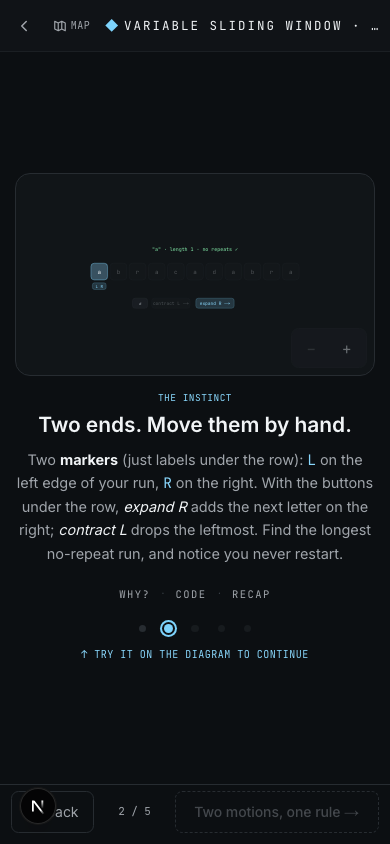
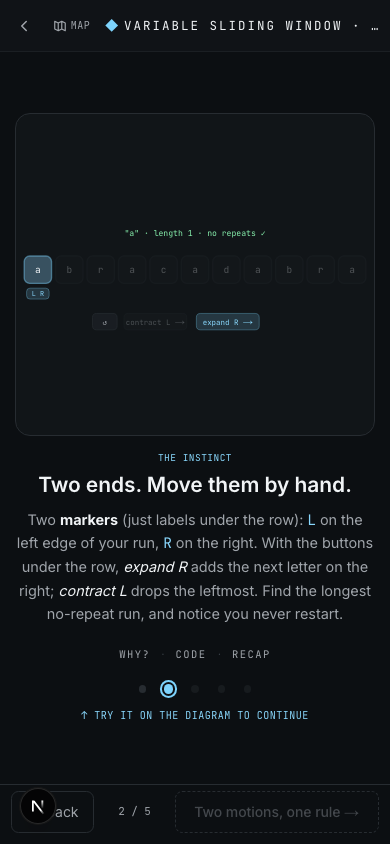
Focus content: fix remaining readability nits (arrows + hash-maps label)
- sliding-window-variable b1/b4: shortened the vertical pointer arrows so
  they no longer strike through their labels (arrow y2 raised above the text).
- strings b2: mirrored the diagonal arrow start (x1 380→560) so it descends
  from the upper-right and clears the s[0:5] slice label.
- hash-maps b4: added a CellContent helper that shrinks a multi-name chain
  ("fawn,eli,june") to fit inside its 56px collision-box cell (single names
  and slot indices keep base size). Data/names unchanged, font-fit only.

Each re-captured and verified readable. tsc · 275 tests · build green.

Claude-Session: https://claude.ai/code/session_01VwEAK6dbS18UJkpyZhpLGe

diff --git a/src/categories/data-structures/topics/hash-maps/lesson-spec.tsx b/src/categories/data-structures/topics/hash-maps/lesson-spec.tsx
@@ -128,6 +128,20 @@ function HashAddress({ api }: { api: BeatVisualApi }) {
   );
 }
 
+/* Render a bucket's contents inside a grid cell. A single name (or the slot
+ * index for an empty box) renders at the base font size; a multi-name chain is
+ * shrunk just enough that the widest label fits inside the cell width, so the
+ * comma-joined chain never overruns box 2's edges. Monospace advance ≈ 0.6em. */
+const GRID_CELL_INNER = GRID.cellPx - 8; // usable width inside the cell padding
+function chainFont(text: string, base: number): number {
+  const fit = GRID_CELL_INNER / (text.length * 0.6);
+  return Math.max(6.5, Math.min(base, fit));
+}
+function CellContent({ names, empty, base }: { names: string[]; empty: number; base: number }) {
+  const text = names.length ? names.join(",") : String(empty);
+  return <tspan style={{ fontSize: chainFont(text, base) }}>{text}</tspan>;
+}
+
 /* ── Beat 4 playback: the 13 names drop into their hashed boxes one at a time ──── */
 interface Drop { n: number; done: boolean; }
 function DropIntoBuckets({ api }: { api: BeatVisualApi }) {
@@ -160,7 +174,7 @@ function DropIntoBuckets({ api }: { api: BeatVisualApi }) {
           const i = r * 4 + c, names = filled[i];
           return {
             tone: (i === lastSlot ? "active" : names.length ? "visited" : undefined) as Tone | undefined,
-            content: <tspan style={{ fontSize: 10 }}>{names.length ? names.join(",") : i}</tspan>,
+            content: <CellContent names={names} empty={i} base={10} />,
           };
         }} />
       <text x={VW / 2} y={GRID.y0 - 28} textAnchor="middle" className="font-mono select-none" style={{ fontSize: 12, fill: s.done ? "var(--diff-easy)" : "var(--text-faint)" }}>
@@ -224,7 +238,7 @@ function CollisionGrid() {
           const i = r * 4 + c, names = GROUPED[i];
           return {
             tone: (COLLISION_SLOTS[i] ? "muted" : names.length ? "visited" : undefined) as Tone | undefined,
-            content: <tspan style={{ fontSize: 9 }}>{names.length ? names.join(",") : i}</tspan>,
+            content: <CellContent names={names} empty={i} base={9} />,
           };
         }} />
       <text x={VW / 2} y={GRID.y0 - 28} textAnchor="middle" className="font-mono select-none" style={{ fontSize: 12, fill: "var(--text-faint)" }}>

diff --git a/src/categories/algorithms/topics/sliding-window-variable/lesson-spec.tsx b/src/categories/algorithms/topics/sliding-window-variable/lesson-spec.tsx
@@ -293,7 +293,7 @@ export const slidingWindowVariableLesson: LessonSpec = {
           intuitive: <>The word <code>abracadabra</code>, one letter per box. Reading left to right, what&rsquo;s the longest run you can take without any letter showing up twice? Nobody hands us a length. We&rsquo;re handed a rule to protect: every letter inside is different.</>,
         }),
       }],
-      arrows: [{ x1: VW / 2, y1: 150, x2: VW / 2, y2: G.y - 18 }],
+      arrows: [{ x1: VW / 2, y1: 150, x2: VW / 2, y2: G.y - 42 }],
       codeLabels: ["sig"],
     },
     {
@@ -480,7 +480,7 @@ export const slidingWindowVariableLesson: LessonSpec = {
           rigorous: <>Count, then name: <code>R</code> makes n forward moves, <code>L</code> at most n, giving at most <code>2n</code> moves, each with an <Term word="O(1)"><code>O(1)</code></Term> lookup. That count is <Term word="O(n)"><code>O(n)</code></Term> time; space is one table entry per distinct character. Against the every-start scan&rsquo;s ~n&sup2;/2 checks: ~250&times; fewer at n = 1,000.</>,
         }),
       }],
-      arrows: [{ x1: G.cx(2), y1: 150, x2: G.cx(2), y2: G.y - 4 }],
+      arrows: [{ x1: G.cx(2), y1: 150, x2: G.cx(2), y2: G.y - 44 }],
       codeLabels: ["expand", "contract"],
       interaction: "none",
     },

diff --git a/src/categories/data-structures/topics/strings/lesson-spec.tsx b/src/categories/data-structures/topics/strings/lesson-spec.tsx
@@ -419,7 +419,7 @@ export const stringsLesson: LessonSpec = {
           </>
         ),
       }),
-      arrows: [{ x1: 380, y1: 150, x2: G.cx(10), y2: G.y - 4 }],
+      arrows: [{ x1: 560, y1: 150, x2: G.cx(10), y2: G.y - 4 }],
       codeLabels: ["slice", "find"],
       interaction: "wedge",
     },
